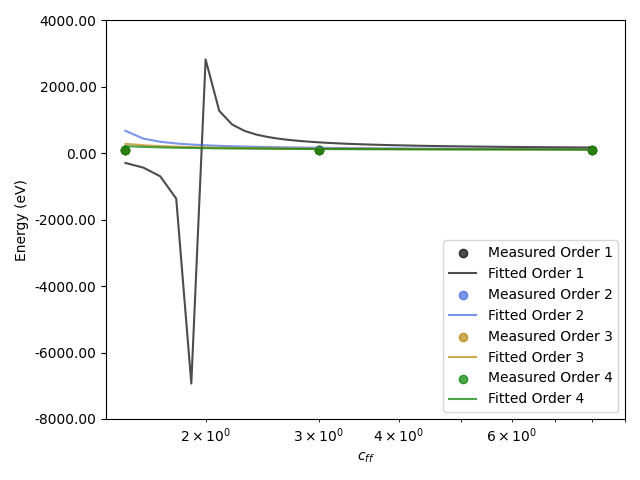
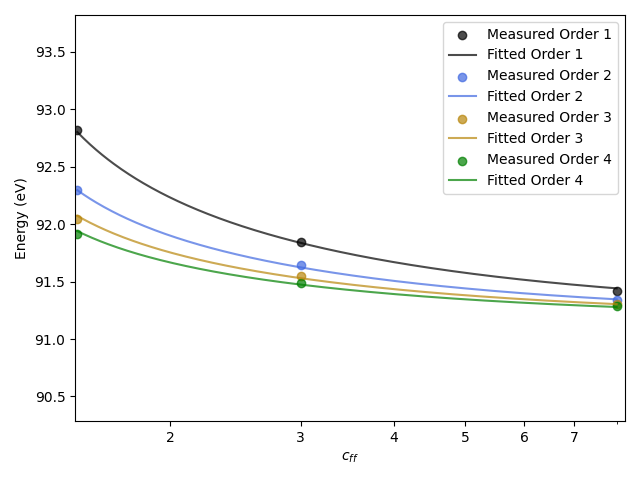
make it work with cff< 1, add an example for it

diff --git a/src/PGM_calibration.py b/src/PGM_calibration.py
@@ -217,6 +217,12 @@ class PGMCalibration:
         cff_values        = np.array(cff_values)
         measured_energies = np.array(measured_energies)
         
+        # Check if a value in cff_values is strictly lower than one
+        mask = cff_values < 1
+        # If the condition is met, make the corresponding value in orders negative
+        orders[mask] *= -1
+        print(orders)
+
         if self.automatic_guess:
             self.set_initial_guess(DTheta=0, DBeta=0, E=np.mean(measured_energies))
        
@@ -311,19 +317,30 @@ class PGMCalibration:
             cff_order = cff_values[mask]
             measured_order = measured_energies[mask]
             
-            # Calculate fitted energies for the current order
-            cff_plot = np.arange(cff_order[0], cff_order[-1], .1)
+            # use more points to plot the fit results
+            cff_plot = np.arange(np.min(cff_values), np.max(cff_values), .01)
+            mask = (cff_plot < 0.9) | (cff_plot > 1.1)
+            cff_plot = cff_plot[mask]
+
+            mask = cff_plot < 1
+            orders_plot = np.full(cff_plot.shape, order)
+            orders_plot[mask] *= -1
+
+            orders_ig = np.full(cff_order.shape, order)
+            mask = cff_order < 1
+            orders_ig[mask] *= -1
+
             fitted_energies = self.shifted_energy(cff_plot, 
-                                                np.full(cff_plot.shape, order), 
-                                                DTheta, 
-                                                DBeta, 
+                                                orders_plot, 
+                                                np.deg2rad(DTheta), 
+                                                np.deg2rad(DBeta), 
                                                 E_opt )       
 
             # Calculate initial guess energies for the current order
             initial_guess_energies = self.shifted_energy(cff_order,
-                                                        np.full(cff_order.shape, order),
-                                                        self.initial_guess['DTheta'],
-                                                        self.initial_guess['DBeta'],
+                                                        orders_ig,
+                                                        np.deg2rad(self.initial_guess['DTheta']),
+                                                        np.deg2rad(self.initial_guess['DBeta']),
                                                         self.initial_guess['E']) 
             
             plt.scatter(cff_order, measured_order , c=colors[idx], label=f'Measured Order {order}', alpha=0.7)
@@ -335,21 +352,17 @@ class PGMCalibration:
         plt.ylabel('Energy (eV)')
         plt.xscale('log')
         
-        # Get current tick positions and labels
-        x_ticks = plt.gca().get_xticks()
-        y_ticks = plt.gca().get_yticks()
-        
-        # Create custom tick labels
-        x_labels = [f'{tick:.2f}' for tick in x_ticks]
-        y_labels = [f'{tick:.2f}' for tick in y_ticks]
-        
-        # Set the custom tick labels
-        plt.gca().set_xticks(x_ticks)
-        plt.gca().set_xticklabels(x_labels)
-        plt.gca().set_yticks(y_ticks)
-        plt.gca().set_yticklabels(y_labels)
+        xmin = np.min(cff_values)
+        xmax = np.max(cff_values)
+        plt.xlim((xmin-.01, xmax+.2))
+        plt.ylim((np.min(measured_energies)-1, np.max(measured_energies)+1))
 
-        plt.xlim((cff_order[0]-.1, cff_order[-1]+1))
+        
+        
+        xticks_positions, xticks_labels = self.generate_x_ticks_pos_and_label(xmin, xmax)
+    
+        plt.xticks(xticks_positions, labels=xticks_labels)
+
         plt.legend()
         plt.tight_layout()
         if savepath is not None:
@@ -357,4 +370,20 @@ class PGMCalibration:
         if show:
             plt.show()
         return plt
+    
+    def generate_x_ticks_pos_and_label(self, xmin, xmax):
+        xticks_positions = []
+        xticks_labels = []
+        # Generate x-tick positions and labels
+        for ind, i in enumerate(np.arange(xmin, xmax, 0.1)):
+            if i < 1 and ind%2==0:
+                xticks_positions.append(i)
+                xticks_labels.append(f"{i:.1f}")
+            else:
+                
+                i = np.round(i,2)
+                if i.is_integer():
+                    xticks_positions.append(i)
+                    xticks_labels.append(f"{int(i)}")
+        return xticks_positions, xticks_labels
 

diff --git a/examples/example_PGMCalibration_UE112_2013.py b/examples/example_PGMCalibration_UE112_2013.py
@@ -1,0 +1,107 @@
+import os
+import numpy as np
+from tabulate import tabulate
+from PGM_calibration import PGMCalibration
+
+N = 600  # Line density (grating grooves per mm)
+# k = 1  # Order of diffraction
+
+os.makedirs('Results/ExampleCalibration', exist_ok=True)
+
+# Example data
+orders = np.array([           1,      1,       1,        1,   2,      2,       2,        2,    3,    3   ])
+cff_values = np.array([       0.2,    0.5,     1.5,      6.3, 0.2,    0.5,     1.5,      6.3,  1.5,   6.3  ])
+measured_energies = np.array([91.451, 91.593, 90.681, 90.941, 91.383, 91.498, 90.776, 91.004,  90.834, 91.036 ])
+
+# c = PGMCalibration(N)
+
+# # Check if a value in cff_values is strictly lower than one
+# mask = cff_values < 1
+# # If the condition is met, make the corresponding value in orders negative
+# orders[mask] *= -1
+# print(orders)
+# en = c.shifted_energy(cff_values, orders, 0, 0, measured_energies)
+# for ind, e in enumerate(en):
+#     print(f'original {measured_energies[ind]}, calculated {e}')
+
+# Select only orders 3 and 4
+selected_orders = [1,2, 3]
+mask = np.isin(orders, selected_orders)
+
+# Filtered data
+orders = orders[mask]
+cff_values = cff_values[mask]
+measured_energies = measured_energies[mask]
+
+
+
+
+# Instantiate the calibration class
+c = PGMCalibration(N)
+
+# Set a reasonable initial guess manually
+c.set_initial_guess(DTheta=0.0, DBeta=0.0, E=91.84, automatic_guess=True)  # Example initial guess values
+
+# Perform fitting
+dtheta, dbeta, E_opt = c.fit_parameters(measured_energies, cff_values, orders)
+
+c.print_fit_results()
+# Plot the fitting results along with initial guess
+c.plot_fit(measured_energies, cff_values, orders,
+           DTheta=dtheta, DBeta=dbeta, E_opt=E_opt,
+           show=False, savepath='Results/UE112_2013/fit_results_ue112_2013.png', 
+           plot_initial_guess=True)
+
+
+
+
+# Rolf's results 
+rolf_dtheta = -np.rad2deg(8.23621e-05)
+rolf_dbeta  = np.rad2deg(8.67778e-05)
+en_rolf     = 91.1254
+
+
+# Calculate the percentage difference
+diff_dtheta = 100 * (dtheta - rolf_dtheta) / rolf_dtheta
+diff_dbeta  = 100 * (dbeta - rolf_dbeta) / rolf_dbeta
+diff_e_opt  = 100 * (E_opt - en_rolf) / en_rolf
+
+# Create the table
+headers = ["Parameter", "Fit Results", "Rolf's Results", "Difference"]
+data = [
+    ["DTheta [deg]", f"{dtheta:.6f}", f"{rolf_dtheta:.6f}", f"{diff_dtheta:.2f}%"],
+    ["DBeta  [deg]", f"{dbeta:.6f}", f"{rolf_dbeta:.6f}", f"{diff_dbeta:.2f}%"],
+    ["E_opt  [eV]", f"{E_opt:.6f}", f"{en_rolf:.6f}", f"{diff_e_opt:.2f}%"]
+]
+
+# Print the table
+print('\nComparison with Rolfs Results')
+print(tabulate(data, headers, tablefmt="pretty", colalign=("left", "right", "right", "right")))
+
+
+
+# EMILE Results
+e_dtheta = -np.rad2deg(4.89892e-05)
+e_dbeta  = np.rad2deg(0.000115096)
+en_e     = 91.1447
+
+# Calculate the percentage difference
+e_diff_dtheta = 100 * (dtheta - e_dtheta) / e_dtheta
+e_diff_dbeta  = 100 * (dbeta - e_dbeta) / e_dbeta
+e_diff_e_opt  = 100 * (E_opt - en_e) / en_e
+
+# Create the table
+headers = ["Parameter", "Fit Results", "EMILE's Results", "Difference"]
+data = [
+    ["DTheta [deg]", f"{dtheta:.6f}", f"{e_dtheta:.6f}",
+     f"{e_diff_dtheta:.2f}%"],
+    ["DBeta  [deg]", f"{dbeta:.6f}", f"{e_dbeta:.6f}", 
+     f"{e_diff_dbeta:.2f}%"],
+    ["E_opt  [eV]", f"{E_opt:.6f}", f"{en_e:.6f}", 
+     f"{e_diff_e_opt:.4f}%"]
+]
+
+# Print the table
+print('\nComparison with Emiles Results')
+print(tabulate(data, headers, tablefmt="pretty", colalign=("left", "right", "right", "right")))
+
